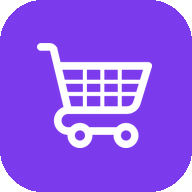
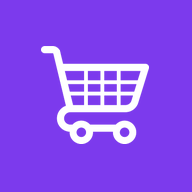
fix: íconos llenos hasta el borde y adaptables, como en Pedidos, para la instalación en Android (v1.17)
Claude-Session: https://claude.ai/code/session_01DhVgd7Et6QmT3shziodnjZ

diff --git a/sw.js b/sw.js
@@ -1,5 +1,5 @@
 // Permite instalar la app y abrirla sin internet. Las ventas las guarda Firebase (con su propia caché).
-const CACHE = 'pos-v1.16';
+const CACHE = 'pos-v1.17';
 const LIBS = 'libs-v1'; // Firebase y la fuente: archivos con versión fija
 const FOTOS = 'fotos-v1';
 const SHELL = ['./', './index.html', './config.js', './manifest.webmanifest', './icono-192.png', './icono-512.png', './logo-carrito.png',

diff --git a/js/version.js b/js/version.js
@@ -1,2 +1,2 @@
 // Sube en cada cambio publicado, junto con CACHE en sw.js.
-export const APP_VERSION = 'v1.16';
+export const APP_VERSION = 'v1.17';
